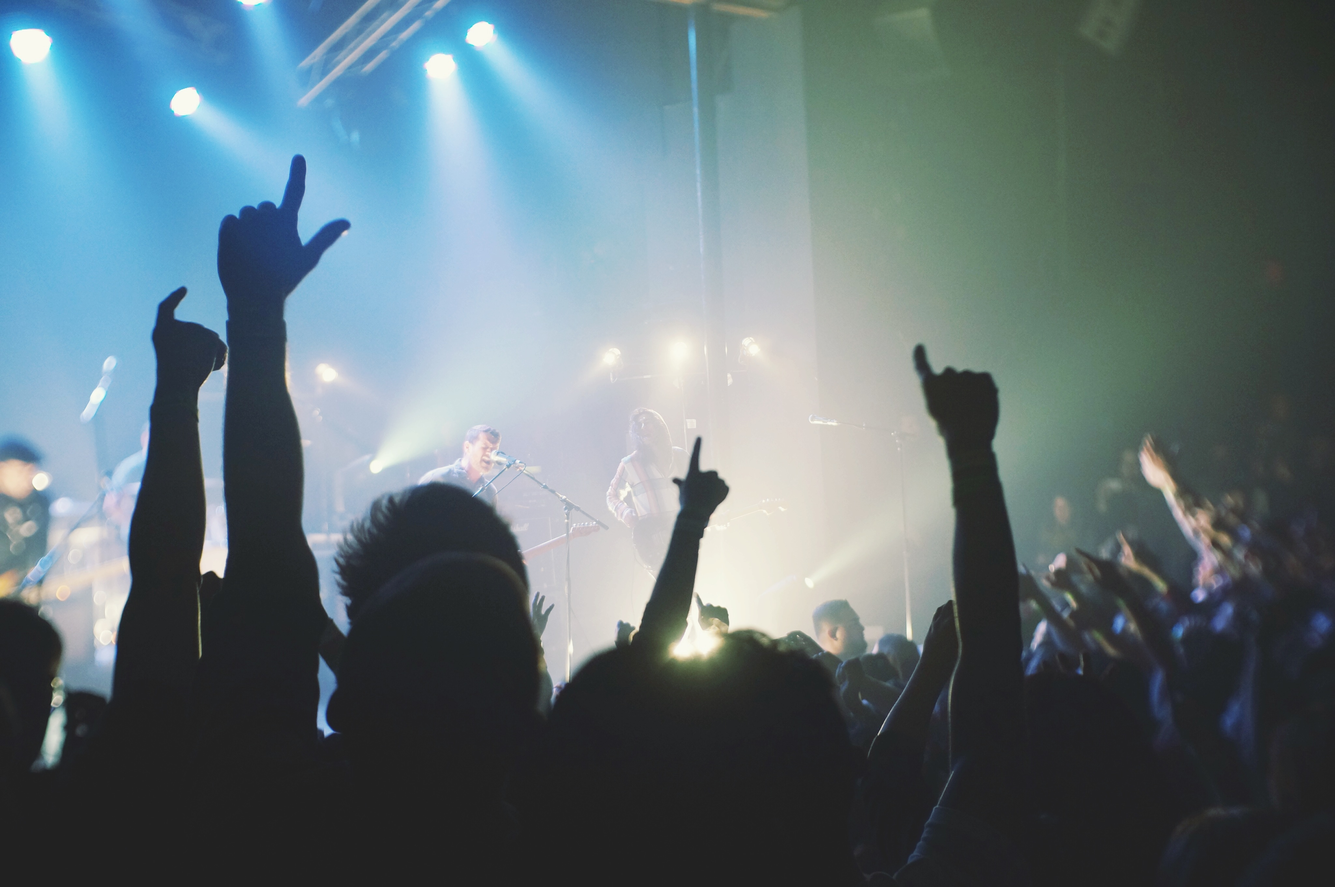
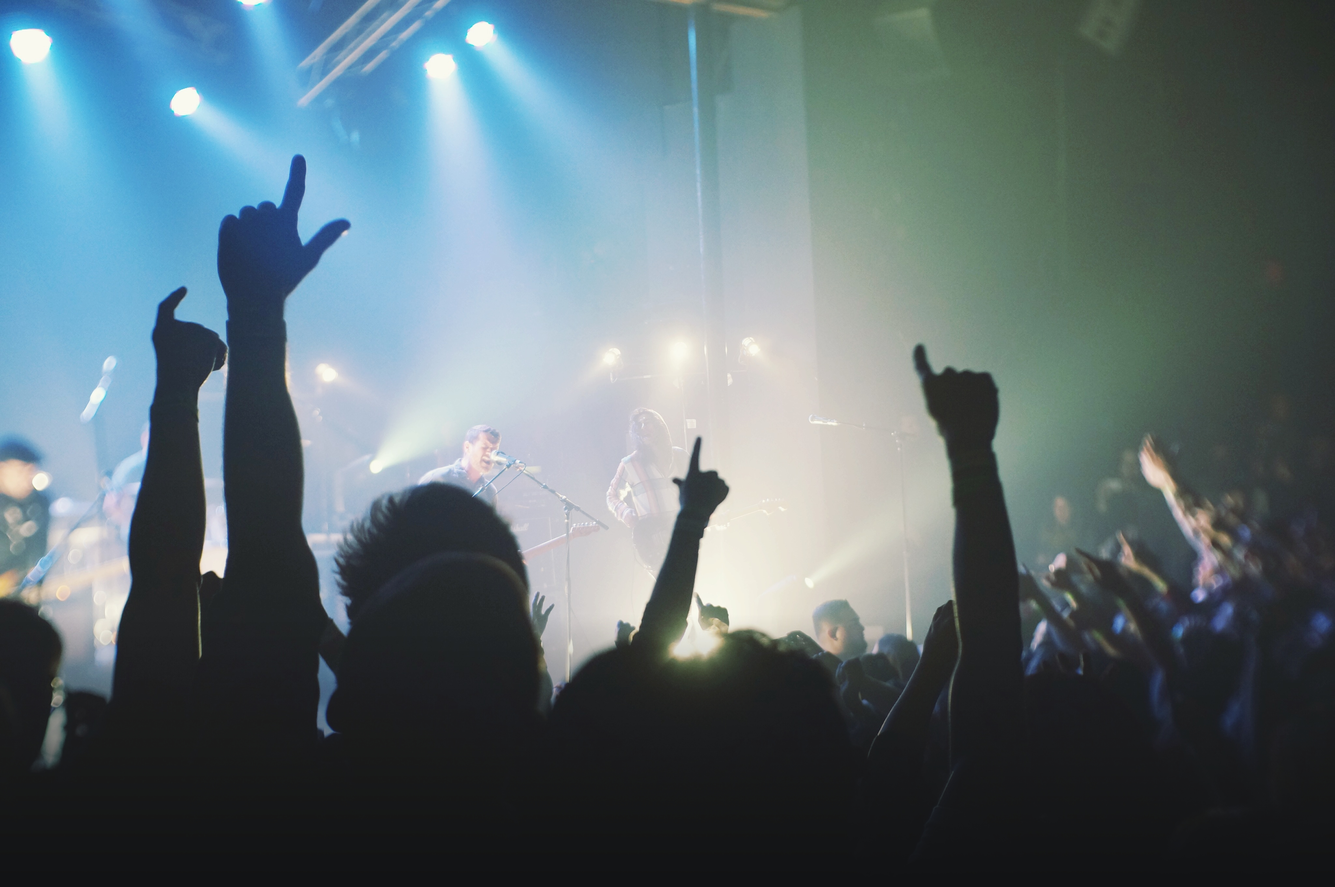
finished styling login page, working on backend logic

diff --git a/web/loginreq.html b/web/loginreq.html
@@ -1,0 +1,71 @@
+<!DOCTYPE html>
+<html>
+ <head>
+  <meta charset="UTF-8">
+  <meta name="viewport" content="width=device-width, initial-scale=1">
+  <meta http-equiv="X-UA-Compatible" content="IE=edge,chrome=1">
+  <title>iNQueue</title>
+
+  <link rel="apple-touch-icon" sizes="57x57" href="favicons/apple-touch-icon-57x57.png">
+  <link rel="apple-touch-icon" sizes="60x60" href="favicons/apple-touch-icon-60x60.png">
+  <link rel="apple-touch-icon" sizes="72x72" href="favicons/apple-touch-icon-72x72.png">
+  <link rel="apple-touch-icon" sizes="76x76" href="favicons/apple-touch-icon-76x76.png">
+  <link rel="apple-touch-icon" sizes="114x114" href="favicons/apple-touch-icon-114x114.png">
+  <link rel="apple-touch-icon" sizes="120x120" href="favicons/apple-touch-icon-120x120.png">
+  <link rel="apple-touch-icon" sizes="144x144" href="favicons/apple-touch-icon-144x144.png">
+  <link rel="apple-touch-icon" sizes="152x152" href="favicons/apple-touch-icon-152x152.png">
+  <link rel="apple-touch-icon" sizes="180x180" href="favicons/apple-touch-icon-180x180.png">
+  <link rel="icon" type="image/png" href="favicons/favicon-32x32.png" sizes="32x32">
+  <link rel="icon" type="image/png" href="favicons/favicon-194x194.png" sizes="194x194">
+  <link rel="icon" type="image/png" href="favicons/favicon-96x96.png" sizes="96x96">
+  <link rel="icon" type="image/png" href="favicons/android-chrome-192x192.png" sizes="192x192">
+  <link rel="icon" type="image/png" href="favicons/favicon-16x16.png" sizes="16x16">
+  <link rel="manifest" href="favicons/manifest.json">
+  <link rel="shortcut icon" href="favicons/favicon.ico">
+  <meta name="msapplication-TileColor" content="#ff0000">
+  <meta name="msapplication-TileImage" content="favicons/mstile-144x144.png">
+  <meta name="msapplication-config" content="favicons/browserconfig.xml">
+  <meta name="theme-color" content="#121314">
+
+  <link href="http://fonts.googleapis.com/css?family=Lato:400,300,600" rel="stylesheet" type="text/css">
+  <link rel="stylesheet" href="css/normalize.css">
+  <link rel="stylesheet" href="css/skeleton.css">
+  <link rel="stylesheet" href="css/main.css">
+
+  <script src="https://fb.me/react-0.13.3.js"></script>
+  <script src="https://cdnjs.cloudflare.com/ajax/libs/react/0.13.3/JSXTransformer.js"></script>
+  <script src="https://ajax.googleapis.com/ajax/libs/jquery/2.1.3/jquery.min.js"></script>
+ </head>
+ <body class="concert">
+
+
+
+  <div  class="hero-container">
+    <div class="hero-title">
+      <img style="margin-right: -194px; margin-bottom: 40px;" src="favicons/favicon-194x194.png" />
+      iNQueue
+    </div>
+    <div >
+      <div class="row" style="text-align: center">
+        <a href="https://accounts.spotify.com/authorize/?client_id=cdfe9dcdaa6e47b1bd0c910df86ee81d&response_type=code&redirect_uri=http%3A%2F%2Flaminarnq.com/login&scope=user-read-private%20user-read-email%20user-library-read%20playlist-modify-public%20user-library-modify&state=stuffgoeshere" class="btn btn-sm primary">
+          LOGIN WITH SPOTIFY</a>
+      </div>
+      <br>
+      <div class="row" style="text-align: center">
+        <a class="btn btn-sm facebook">LOGIN WITH FACEBOOK</a>
+      </div>
+      <br>
+      <div class="row" style="text-align: center">
+        <a class="btn btn-sm twitter">LOGIN WITH TWITTER</a>
+      </div>
+      <br>
+      <br>
+      <div class="row" style="text-align: center">
+        <a class="">Continue as anonymous</a>
+      </div>
+      <br>
+    </div>
+  </div>
+  <img class="base-image" src="images/laminarfade.png"/>
+ </body>
+</html>

diff --git a/web/css/main.css b/web/css/main.css
@@ -1,8 +1,99 @@
+
+/* BASICS */
 body{
   background-color: #121314;
   color: #fbfbfc;
 }
 
+.btn{
+  text-decoration: none;
+  display: inline-block;
+  margin-bottom: 0;
+  font-weight: 600;
+  text-align: center;
+  vertical-align: middle;
+  touch-action: manipulation;
+  cursor: pointer;
+  font-size: 18px;
+  line-height: 1.5;
+  border-radius: 500px;
+  padding: 11px 47px 9px;
+  transition: background-color .15s ease,border-color .15s ease,color .15s ease;
+  border-width: 0;
+  letter-spacing: 1.2px;
+  min-width: 130px;
+  text-transform: uppercase;
+}
+
+.btn.primary{
+  color: #fff;
+  background-color: #2ebd59;
+}
+
+.btn.primary:hover{
+  background-color: #1ed760;
+}
+
+.btn.facebook{
+  color: #fff;
+  background-color: #3b5998;
+}
+
+.btn.facebook:hover{
+  background-color: #4e69a2;
+}
+
+.btn.twitter{
+  color: #fff;
+  background-color: #4099FF;
+}
+
+.btn.twitter:hover{
+  background-color: #53A3FF;
+}
+
+.btn-sm{
+  font-size: 14px;
+  line-height: 1.5;
+  border-radius: 500px;
+  padding: 6px 35px 6px;
+}
+
+.center-page{
+  top: 50vh;
+}
+
+.center-container{
+  margin-top: -100px;
+}
+
+.base-image{
+  position: fixed;
+  bottom: 20px;
+  left:0;
+  height: 50px;
+}
+
+.hero-title{
+  font-size: 3em;
+  text-align: center;
+  margin-bottom: 40px;
+}
+.hero-container{
+  max-width: 300px;
+  margin: 0 auto;
+  background-color: rgba(0,0,0,0.5);
+  height: 100vh;
+}
+
+/* BACKGROUNDS */
+.concert{
+  background-image: url(../images/concert.jpg);
+  background-repeat: no-repeat;
+  background-size: cover;
+}
+
+/* NAVBAR */
 .menu-nav{
   background-color: rgba(0,0,0,0.7);
   position:fixed;

diff --git a/web/login/index.php b/web/login/index.php
@@ -1,7 +1,7 @@
 <?php
 
-echo "code: " . $_GET["code"] . "\n";
-echo "state: " . $_GET["state"] . "\n";
+echo "code: " . $_GET["code"];
+echo "state: " . $_GET["state"];
 
 
 ?>
